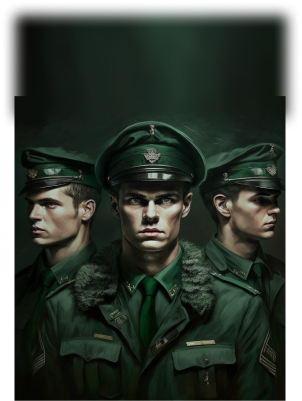
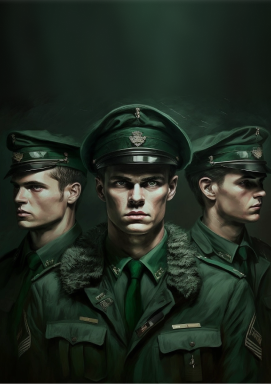
sgshsht

diff --git a/login.html b/login.html
@@ -78,7 +78,7 @@
                     </a>
                     <a href="" class="login-main__item login-main__item--green">
                         <div class="login-main__item-img">
-                            <img src="img/login-main.png" alt="">
+                            <img src="img/login-main3.png" alt="">
                         </div>
                         <div class="login-main__item-title login-main__title--green">Армия</div>
                         <div class="login-main__item-border">

diff --git a/scss/login.scss b/scss/login.scss
@@ -96,8 +96,7 @@
     }
     &--blue2 {
       &:hover {
-        filter: drop-shadow(0px 0px 73px rgba(67, 157, 99, 0.71));
-        .login-main__item-border {
+        filter: drop-shadow(0px 0px 73px rgba(58, 209, 189, 0.59));        .login-main__item-border {
           svg {
             path {
               font-weight: 700;

diff --git a/css/style.css b/css/style.css
@@ -335,7 +335,7 @@ li {
   color: #6BB485;
 }
 .login-main__item--blue2:hover {
-  filter: drop-shadow(0px 0px 73px rgba(67, 157, 99, 0.71));
+  filter: drop-shadow(0px 0px 73px rgba(58, 209, 189, 0.59));
 }
 .login-main__item--blue2:hover .login-main__item-border svg path {
   font-weight: 700;
